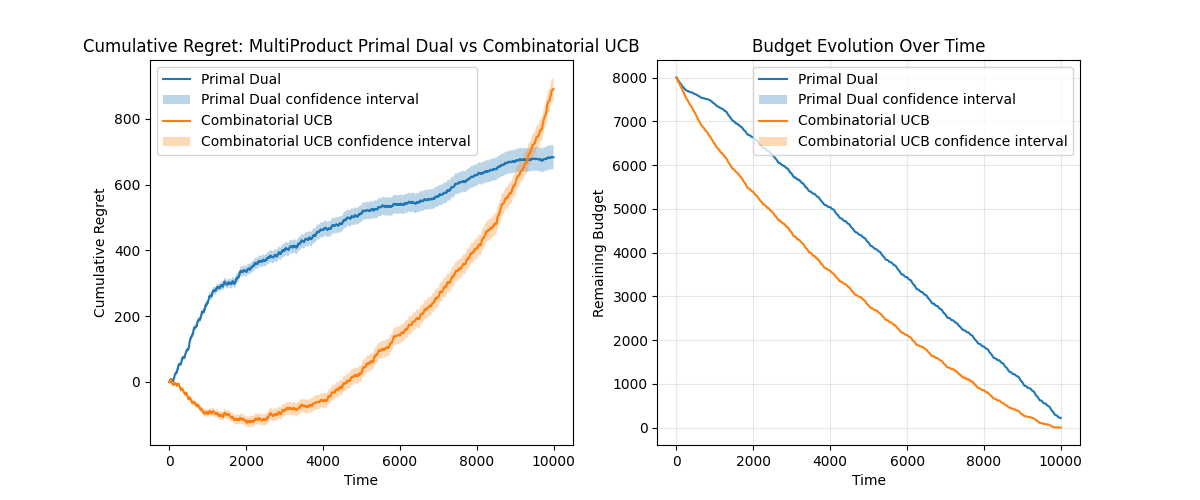
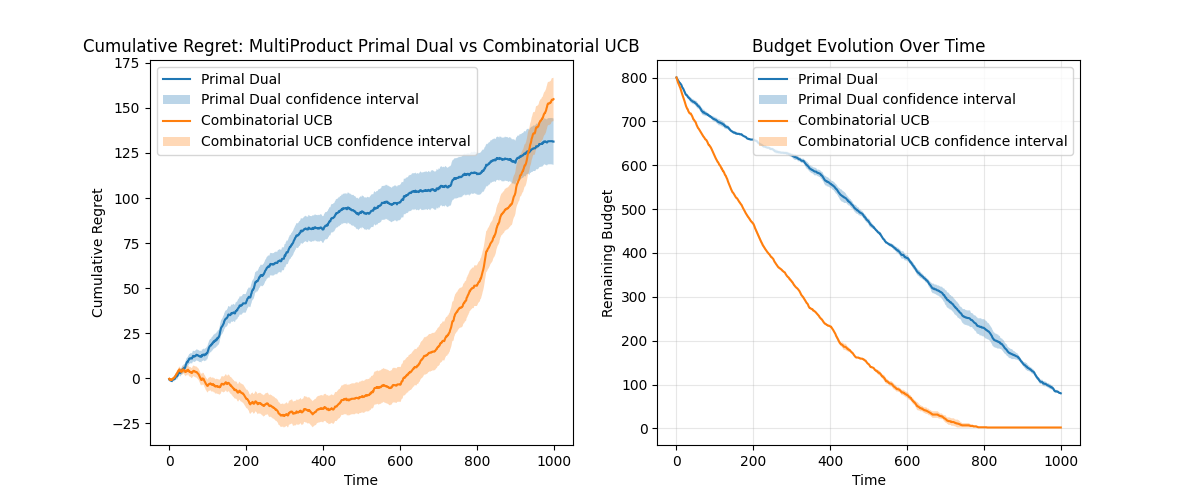
Dynamic rho

diff --git a/agents.py b/agents.py
@@ -426,7 +426,15 @@ class PrimalDualAgent(Agent):
 class MultiItemPrimalDualAgent(Agent):
     """Primal-Dual agent with Full-Feedback for multi-product pricing"""
 
-    def __init__(self, prices: NDArray[np.float64], time_horizon: int, budget: float, n_products: int, eta: float = None) -> None:
+    def __init__(
+            self,
+            prices: NDArray[np.float64],
+            time_horizon: int,
+            budget: float,
+            n_products: int,
+            eta: float = None,
+            dynamic_rho: bool = False
+    ) -> None:
         """
         Initialize the multi-item dual pricing agent.
         Args:
@@ -434,62 +442,75 @@ class MultiItemPrimalDualAgent(Agent):
             time_horizon: Time horizon of the simulation
             budget: Total initial budget
             eta: Learning rate for dual variable update
+            n_products: Number of products to price
+            dynamic_rho: Whether to use dynamic rho based on remaining budget and time
         """
-        self.prices = prices
+        self._prices = prices
         assert len(
             prices) > 1, "MultiItemPrimalDualAgent requires at least 2 prices."
-        self.num_prices = len(prices)
-        self.time_horizon = time_horizon
+        self._num_prices = len(prices)
+        self._time_horizon = time_horizon
         assert n_products > 0, "Number of products must be positive."
-        self.n_products = n_products
+        self._n_products = n_products
         assert budget > 0, "Budget must be positive."
-        self.budget = budget
-        self.rho = budget / (n_products * time_horizon)
-        self.eta = eta if eta is not None else 1.0 / \
+        self._budget = budget
+        self._rho = budget / (n_products * time_horizon)
+        self._eta = eta if eta is not None else 1.0 / \
             np.sqrt(time_horizon)
-        lr = np.sqrt(np.log(self.num_prices) / time_horizon)
-        self.hedges = [
-            HedgeAgent(self.num_prices, lr) for _ in range(n_products)
+        lr = np.sqrt(np.log(self._num_prices) / time_horizon)
+        self._hedges = [
+            HedgeAgent(self._num_prices, lr) for _ in range(n_products)
         ]
-        self.lmbd = 1.0
-        self.last_arms = np.array([-1] * self.n_products, dtype=np.int64)
+        self._lmbd = 1.0
+        self._last_arms = np.array([-1] * self._n_products, dtype=np.int64)
+        self._dynamic_rho = dynamic_rho
+        self._current_round = 0
 
     def pull_arm(self) -> NDArray[np.int64]:
-        if self.budget < 1:
-            self.last_arms = np.array([-1] * self.n_products, dtype=np.int64)
-            return self.last_arms
+        if self._budget < 1:
+            self._last_arms = np.array([-1] * self._n_products, dtype=np.int64)
+            return self._last_arms
 
-        arms = [hedge.pull_arm() for hedge in self.hedges]
-        self.last_arms = np.array(arms, dtype=np.int64)
-        return self.last_arms
+        arms = [hedge.pull_arm() for hedge in self._hedges]
+        self._last_arms = np.array(arms, dtype=np.int64)
+        return self._last_arms
 
     def update(
         self, reward: NDArray[np.float64], valuations: NDArray[np.float64] = None
     ) -> None:
-        if np.all(self.last_arms == -1):
+        if np.all(self._last_arms == -1):
             return
 
         total_units_sold: int = np.sum(reward > 0)
-        p_max = float(self.prices.max())
-        L_up = p_max - self.lmbd * (0 - self.rho)
-        L_low = 0.0 - self.lmbd * (1 - self.rho)
+        p_max = float(self._prices.max())
+        L_up = p_max - self._lmbd * (0 - self._rho)
+        L_low = 0.0 - self._lmbd * (1 - self._rho)
         norm_factor = L_up - L_low + 1e-10
 
-        for j in range(self.n_products):
-            would_sell = (self.prices <= valuations[j]).astype(float)
-            f_vec = self.prices * would_sell
-            L_vec = f_vec - self.lmbd * (would_sell - self.rho)
+        for j in range(self._n_products):
+            would_sell = (self._prices <= valuations[j]).astype(float)
+            f_vec = self._prices * would_sell
+            L_vec = f_vec - self._lmbd * (would_sell - self._rho)
             loss_vec = 1.0 - (L_vec - L_low) / norm_factor
             loss_vec = np.clip(loss_vec, 0.0, 1.0)
-            self.hedges[j].update(loss_vec)
+            self._hedges[j].update(loss_vec)
 
-        self.budget -= total_units_sold
-        self.lmbd = float(np.clip(
-            self.lmbd - self.eta *
-            (self.rho * self.n_products - total_units_sold),
+        self._budget -= total_units_sold
+        self._lmbd = float(np.clip(
+            self._lmbd - self._eta *
+            (self._rho * self._n_products - total_units_sold),
             a_min=0.0,
-            a_max=1 / self.rho if self.rho > 0 else 1.0,
+            a_max=1 / self._rho if self._rho > 0 else 1.0,
         ))
+
+        self._current_round += 1  # Assuming that the update is called once per round
+        if self._dynamic_rho:
+            remaining_rounds = self._time_horizon - self._current_round
+            if remaining_rounds > 0:
+                self._rho = self._budget / \
+                    (self._n_products * remaining_rounds)
+            else:
+                self._rho = 0.0
 
 
 # Task 5

diff --git a/req4/req4.py b/req4/req4.py
@@ -214,6 +214,17 @@ def primal_dual_agent_builder(env: Environment) -> Agent:
     )
 
 
+def prima_dul_dual_agent_with_dynamic_rho_builder(env: Environment) -> Agent:
+    return MultiItemPrimalDualAgent(
+        prices=prices,
+        budget=budget,
+        time_horizon=time_horizon,
+        n_products=num_items,
+        eta=primal_dual_eta,
+        dynamic_rho=True
+    )
+
+
 def sliding_window_agent_builder(env: Environment) -> Agent:
     return CombinatorialUCBBiddingSlidingWindow(
         num_items=num_items,
@@ -240,6 +251,7 @@ results = run_multiple_simulations(
         primal_dual_agent_builder,
         combinatorial_agent_builder,
         sliding_window_agent_builder,
+        prima_dul_dual_agent_with_dynamic_rho_builder,
     ],
     baseline_builder=baseline_builder,
     num_trials=num_trials,
@@ -315,6 +327,29 @@ plot_budget_evolution(
 )
 
 fig.savefig("req4_primaldual_vs_ucbsliding_cumregret_budgetevolution.png")
+
+fig, axes = plt.subplots(1, 2, figsize=(12, 5))
+
+plot_cumulative_regret(
+    valuations=results.valuations,
+    agents_played_arms=results.agents_played_arms[[0, 3], ...],
+    baseline_played_arms=results.baseline_played_arms,
+    prices=prices,
+    agents_names=["Fixed", "Dynamic"],
+    title="Cumulative Regret: Fixed vs Dynamic Rho",
+    ax=axes[0],
+)
+
+plot_budget_evolution(
+    valuations=results.valuations,
+    agents_played_arms=results.agents_played_arms[[0, 3], ...],
+    prices=prices,
+    agents_names=["Fixed", "Dynamic"],
+    initial_budget=budget,
+    ax=axes[1],
+)
+
+fig.savefig("req4_primaldual_fixed_vs_dynamic_cumregret_budgetevolution.png")
 
 # Conversion rates as a separate plot with dual subplots
 # plot_conversion_rates(
